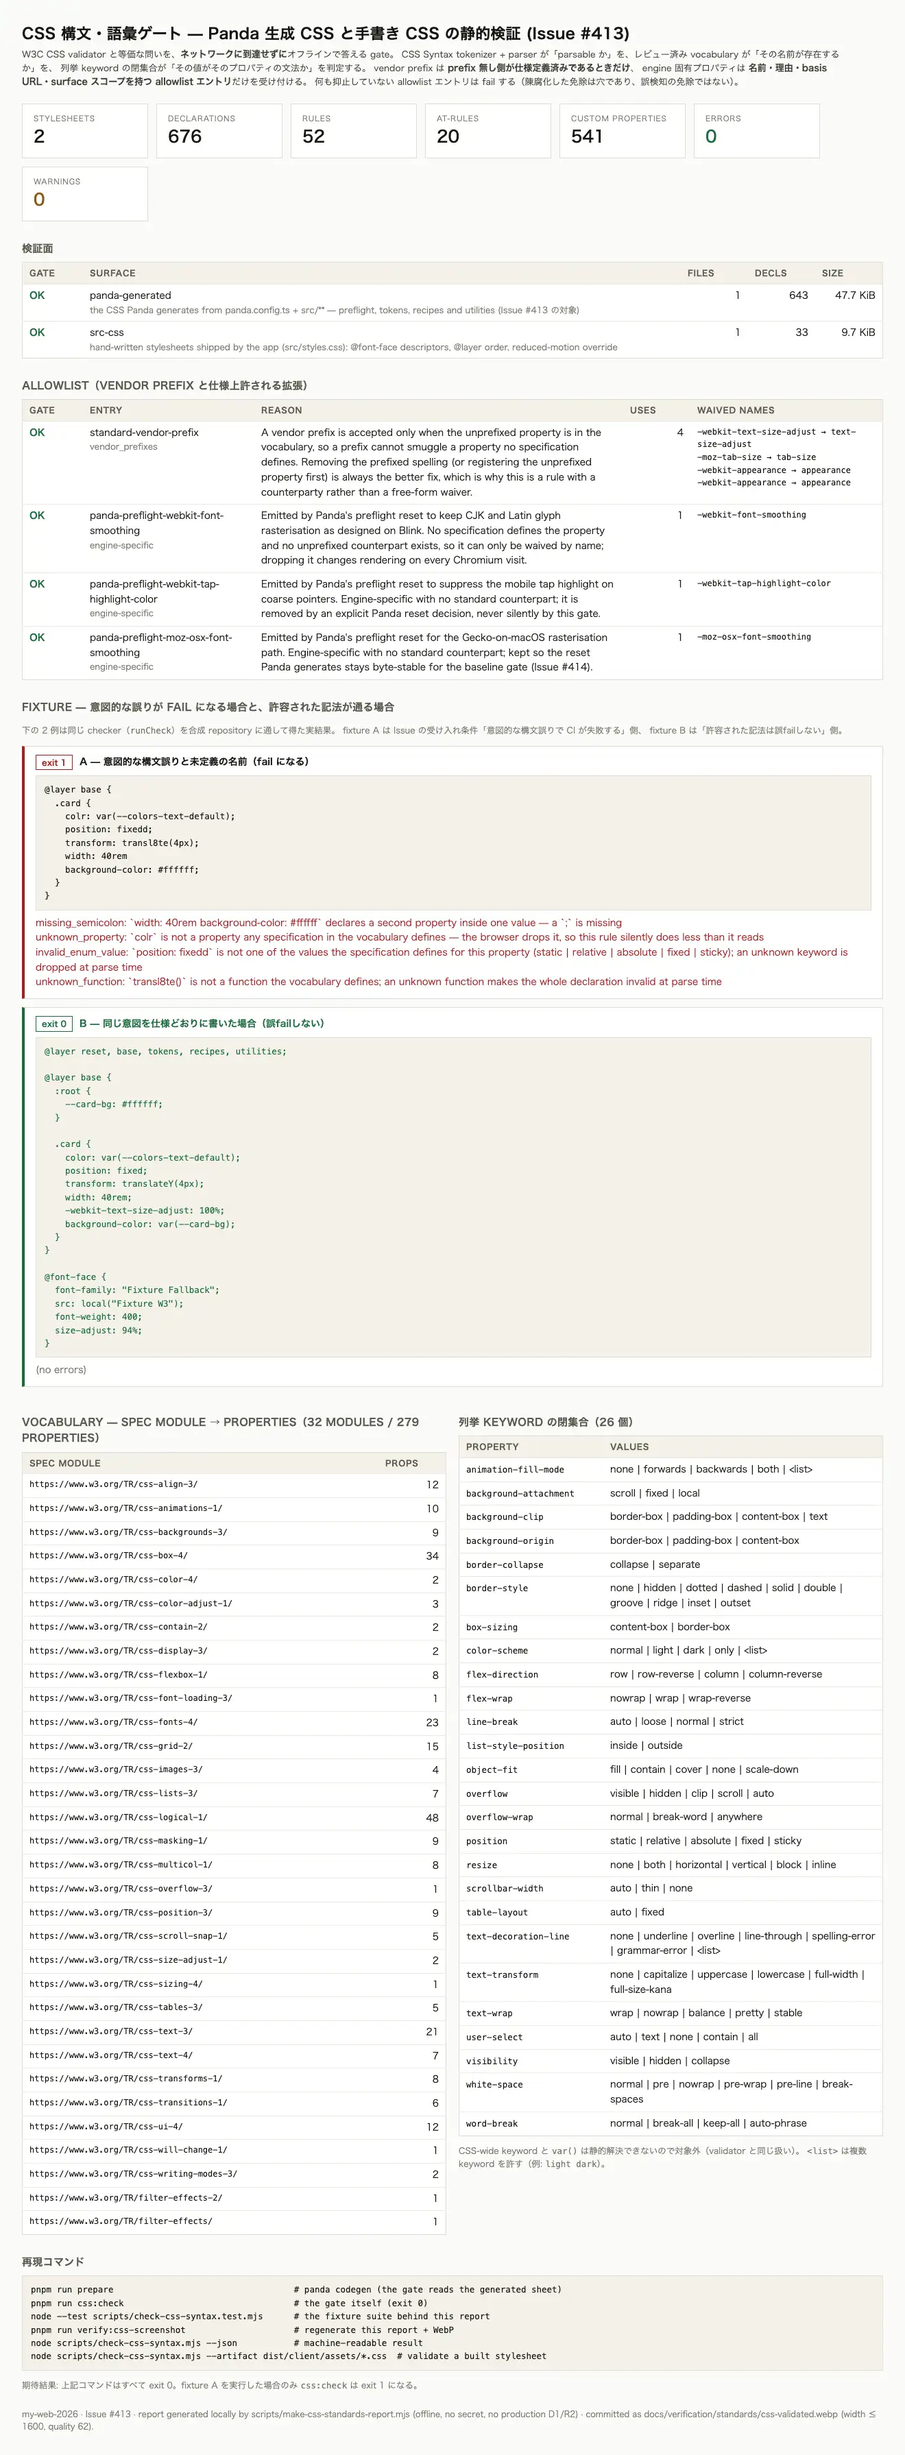
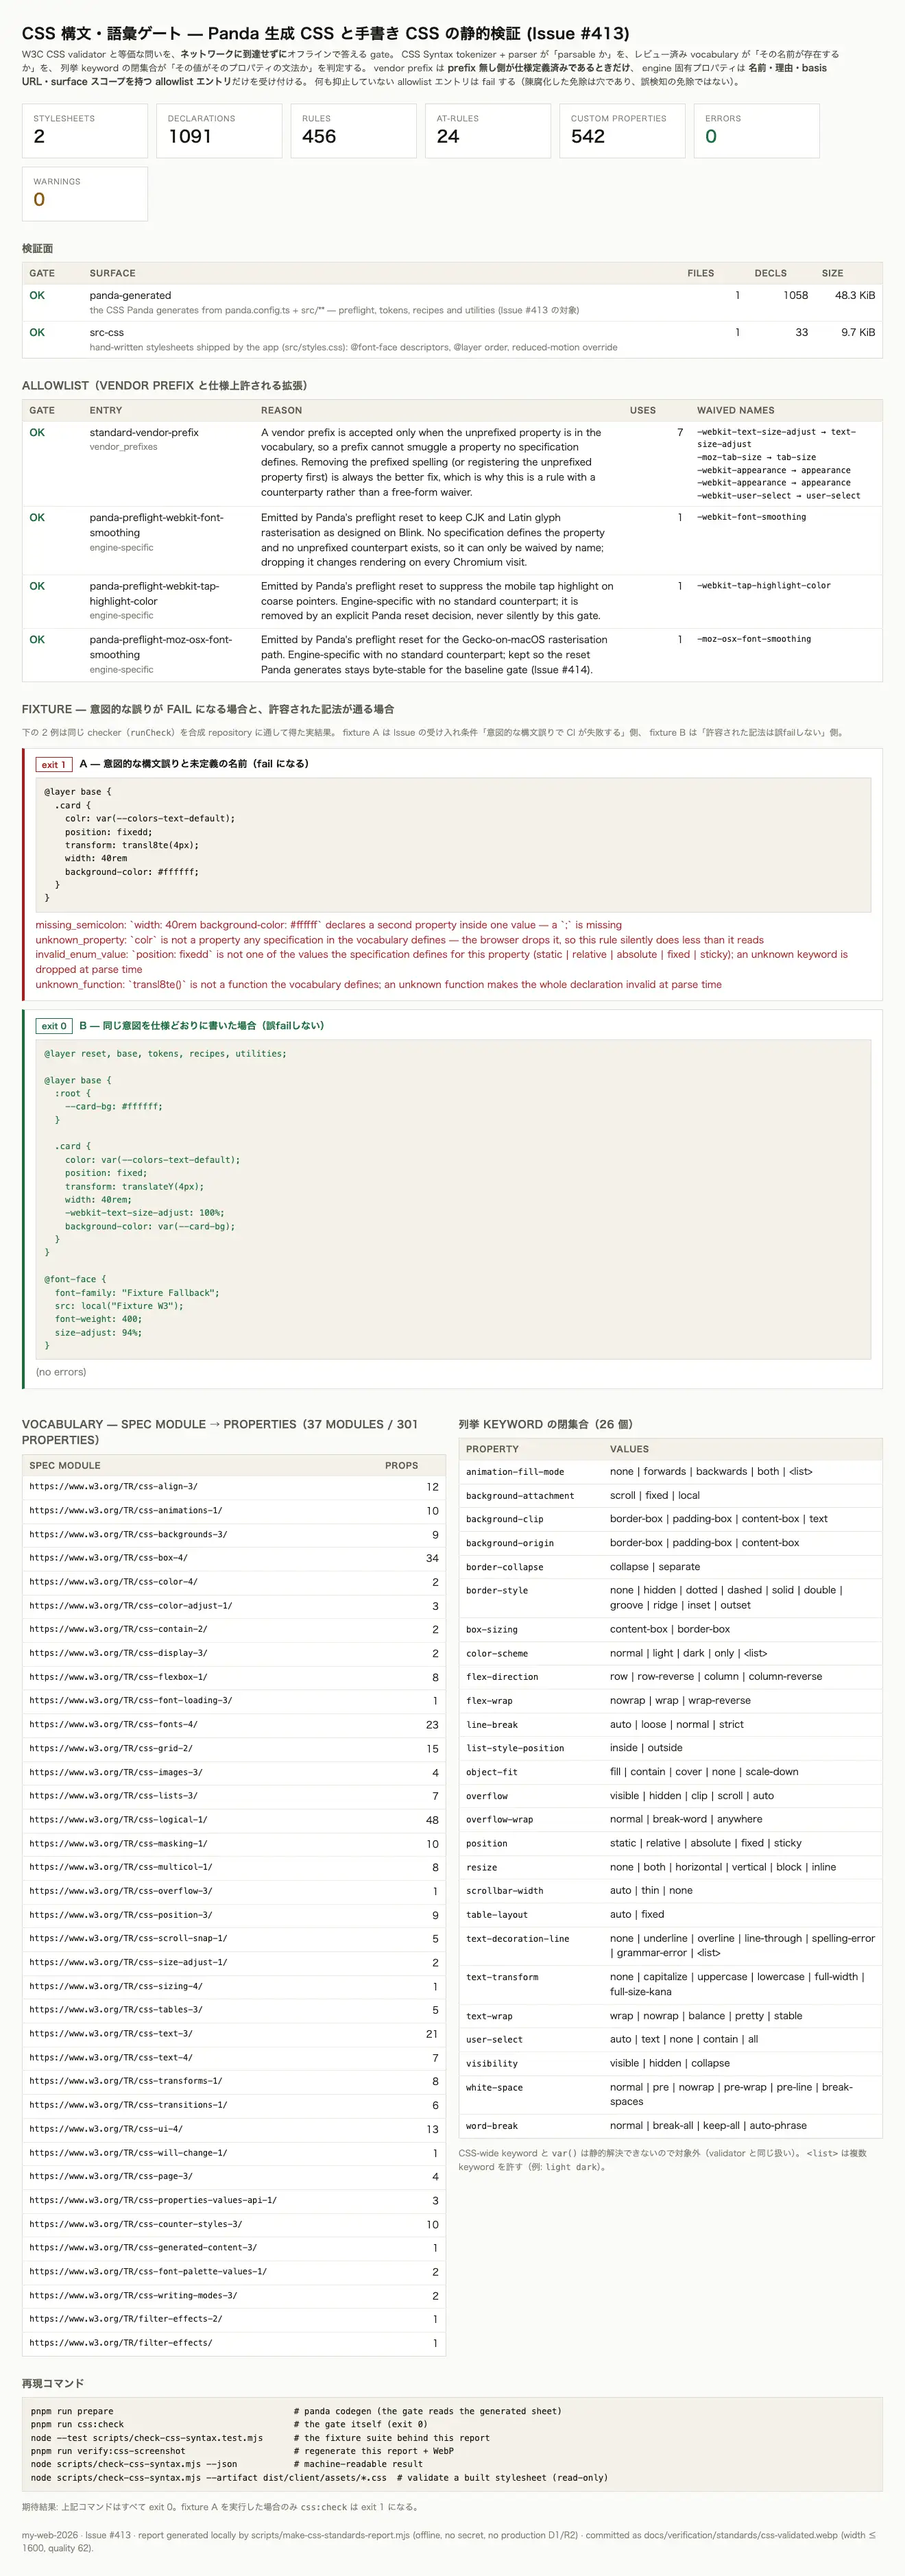
fix(css-gate): validate the whole sheet, stop --artifact overwriting, accept valid escapes (#413)
Review fixes for the CSS syntax / vocabulary gate.

Blocking:
- parse: a qualified rule whose last declaration omits its `;` handed its own
  closing `}` back to the enclosing block, which read it as the enclosing
  terminator. One `}` too many was consumed per nesting level, so the top-level
  parse ended at the first such rule: 64% of the generated stylesheet (the whole
  `@layer utilities` block) was never validated while the gate still exited 0.
  `collect()` already consumes the brace, so the hand-back is removed, and a
  `parse_truncated` guard now fails if the top-level parse returns before eof.
- tokenize: `i += escape.length` in the quoted-string branch referenced the
  legacy global `escape()` instead of the `nameEscape` computed above it, so
  every backslash escape advanced one character too far. `content: "\2014"` read
  as an unterminated string.
- cli: `--artifact <path>` regenerated *into* that path (`panda cssgen --outfile`),
  overwriting a built stylesheet and then reporting exit 0 for the file it had
  just written. `--artifact` is now read-only, `generatePandaCss` refuses any
  target outside `.tmp/`, absolute artifact paths resolve correctly, and the two
  documentation lines now describe the working invocation.

Non-blocking:
- tokenize/parse: a `url` / `bad-url` token is self-contained, so raising the
  prelude nesting depth for it left the depth permanently positive and swallowed
[…]

diff --git a/docs/verification/standards/css-validated.md b/docs/verification/standards/css-validated.md
@@ -109,19 +109,28 @@ gitignored 一時領域）にのみ書き出し、追跡ファイルを一切変
 ```bash
 pnpm run css:check                                          # gate 本体（validate:fast に含まれる）
 node scripts/check-css-syntax.mjs --json                    # 機械可読な結果
-node scripts/check-css-syntax.mjs --artifact <path>.css     # ビルド済みスタイルシートを指定
+node scripts/check-css-syntax.mjs --artifact <path>.css     # ビルド済みスタイルシートを検証する（読み取り専用）
 node scripts/check-css-syntax.mjs --no-generate             # 直近の生成物を再検証する
-node --test scripts/check-css-syntax.test.mjs               # fixture suite（50 cases）
+node --test scripts/check-css-syntax.test.mjs               # fixture suite（60 cases）
 pnpm run verify:css-screenshot                              # report HTML + WebP を再生成
 ```
+
+> `--artifact <path>` は**書き込まない**。指定されたスタイルシートをその場で
+> 読んで検証するだけで、`panda cssgen` は走らない。生成されるのは
+> `--artifact` を付けなかった場合の既定 `.tmp/css-syntax/panda-generated.css`
+> だけで、`generatePandaCss` は `.tmp/` 外への書き込みを拒否する（build 出力の
+> 上書き事故を防ぐため）。また `--artifact` は「宣言済み surface 集合全体」に
+> 関する scope guard（`surface_empty` / `vocabulary_underfloor` / `allow_unused`）を
+> スキップし、その旨を `note:` として出力する。ファイル単 contents の検査
+> （構文・未知プロパティ・未知 at-rule・値の文法）はすべて実行される。
 
 期待結果（`src/**` の増加に合わせて宣言数は増える。下の行はこの report を最後に
 再生成した時点の値）:
 
 ```
-surfaces    2 declared · 2 stylesheet(s) · 676 declarations · 52 rules · 20 at-rules
-vocabulary  279 properties from 32 spec module(s) · 16 at-rules · 78 functions · 26 enumerated value sets
-allowlist   4 declared entries covering 7 occurrence(s)
+surfaces    2 declared · 2 stylesheet(s) · 1091 declarations · 456 rules · 24 at-rules
+vocabulary  301 properties from 37 spec module(s) · 16 at-rules · 79 functions · 26 enumerated value sets
+allowlist   4 declared entries covering 10 occurrence(s)
 exit 0      # `errors (n)` 行はエラーが 1 件以上あるときだけ出力される（0 件なら出ない）
 ```
 
@@ -175,7 +184,8 @@ PR 添付の report [`css-validated.webp`](./css-validated.webp) にも同じ ch
 - **生成物**: gate が検証するのは `panda cssgen` の出力であり、minify 済みの
   build artifact ではない。実ビルドのスタイルシートを検証するには
   `--artifact <path>` を指定する（`validate:integration` の `pnpm run build` 後に
-  `dist/client/assets/*.css` を渡せる）。
+  `dist/client/assets/*.css` を渡せる。この指定は読み取り専用で、渡された
+  ファイルを書き換えることはない）。
 - **有効だが後勝ちされる宣言**は指摘しない。本 gate は「妥当か」を答えるもので、
   「効いているか」ではない。
 - Issue #414 の Baseline gate（互換性。「対象ブラウザで動くか」）とは別の問いを
